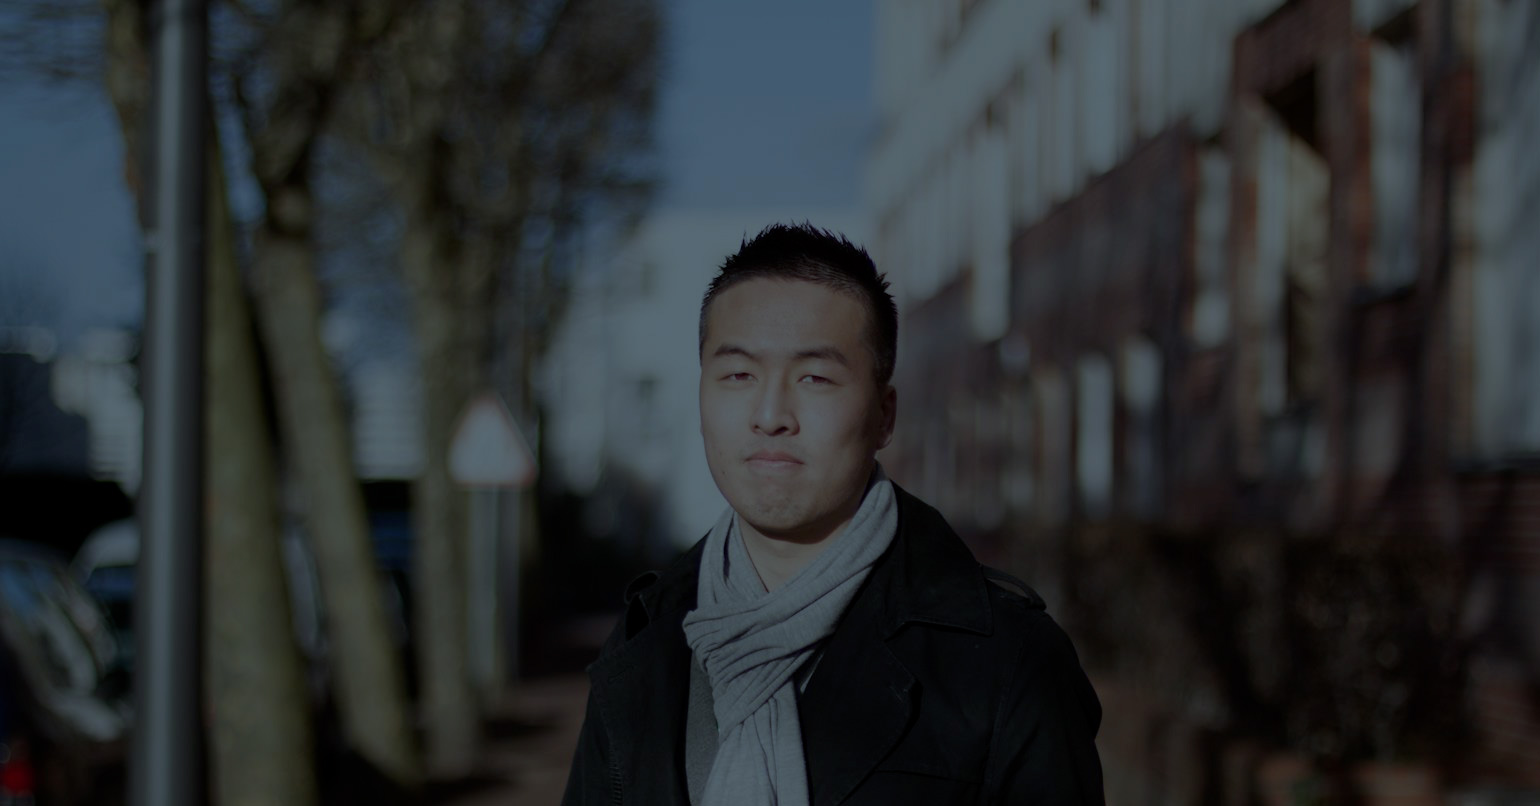
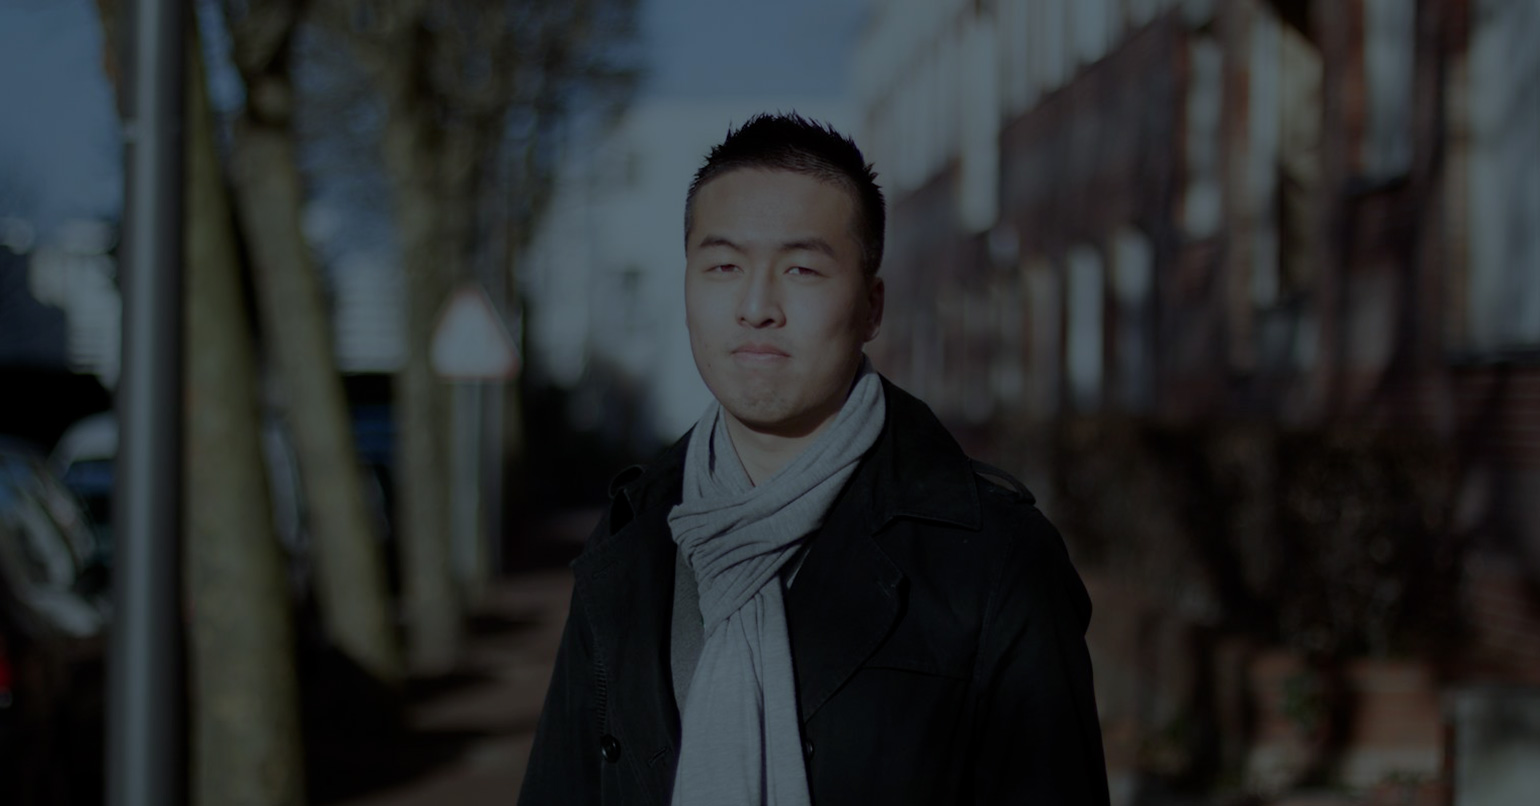
Automatisation import + change splash

diff --git a/app/styles/main.css b/app/styles/main.css
@@ -1,6 +1,3 @@
-@import url(../../bower_components/pure/pure-min.css);
-@import url(../../bower_components/pure/grids-responsive-min.css);
-@import url("//netdna.bootstrapcdn.com/font-awesome/4.0.3/css/font-awesome.css");
 .browsehappy {
   margin: 0.2em 0;
   background: #ccc;
@@ -101,7 +98,8 @@ a.pure-button-primary {
 .home-menu .pure-menu-heading {
   color: white;
   font-weight: 400;
-  font-size: 120%; }
+  font-size: 120%;
+  float: left; }
 
 .home-menu .pure-menu-selected a {
   color: white; }
@@ -130,7 +128,7 @@ a.pure-button-primary {
   height: 88%;
   top: 0;
   left: 0;
-  position: fixed !important; }
+  position: absolute !important; }
 
 .splash {
   /* absolute center .splash within .splash-container */
@@ -138,7 +136,7 @@ a.pure-button-primary {
   height: 50%;
   margin: auto;
   position: absolute;
-  top: 100px;
+  top: 65%;
   left: 0;
   bottom: 0;
   right: 0;
@@ -151,7 +149,7 @@ a.pure-button-primary {
   font-weight: bold;
   color: white;
   border: 3px solid white;
-  padding: 1em 1.6em;
+  padding: 0.5em 0em;
   font-weight: 100;
   border-radius: 5px;
   line-height: 1em; }
@@ -231,7 +229,7 @@ a.pure-button-primary {
   /* We decrease the width of the .splash, since we have more width
   to work with */
   .splash {
-    width: 50%;
+    width: 40%;
     height: 50%; }
 
   .splash-head {

diff --git a/app/styles/main.scss b/app/styles/main.scss
@@ -1,9 +1,5 @@
 // bower:scss
-@import '../../bower_components/pure/pure-min.css';
-@import '../../bower_components/pure/grids-responsive-min.css';
-@import url('//netdna.bootstrapcdn.com/font-awesome/4.0.3/css/font-awesome.css');
 // endbower
-
 
 .browsehappy {
   margin: 0.2em 0;
@@ -123,6 +119,7 @@ a.pure-button-primary {
   color: white;
   font-weight: 400;
   font-size: 120%;
+  float: left;
 }
 
 .home-menu .pure-menu-selected a {
@@ -156,7 +153,7 @@ a.pure-button-primary {
   height: 88%;
   top: 0;
   left: 0;
-  position: fixed !important;
+  position: absolute !important;
 }
 
 .splash {
@@ -165,7 +162,7 @@ a.pure-button-primary {
   height: 50%;
   margin: auto;
   position: absolute;
-  top: 100px; left: 0; bottom: 0; right: 0;
+  top: 65%; left: 0; bottom: 0; right: 0;
   text-align: center;
   text-transform: uppercase;
 }
@@ -176,7 +173,7 @@ a.pure-button-primary {
   font-weight: bold;
   color: white;
   border: 3px solid white;
-  padding: 1em 1.6em;
+  padding: 0.5em 0em;
   font-weight: 100;
   border-radius: 5px;
   line-height: 1em;
@@ -269,7 +266,7 @@ a.pure-button-primary {
   /* We decrease the width of the .splash, since we have more width
   to work with */
   .splash {
-    width: 50%;
+    width: 40%;
     height: 50%;
   }
 

diff --git a/Gruntfile.js b/Gruntfile.js
@@ -55,6 +55,10 @@ module.exports = function (grunt) {
       gruntfile: {
         files: ['Gruntfile.js']
       },
+      less: {
+        files: [ 'bower.json' ],
+        tasks: [ 'exec:bower_install' ]
+      },
       livereload: {
         options: {
           livereload: '<%= connect.options.livereload %>'
@@ -64,6 +68,12 @@ module.exports = function (grunt) {
           '.tmp/styles/{,*/}*.css',
           '<%= yeoman.app %>/images/{,*/}*.{png,jpg,jpeg,gif,webp,svg}'
         ]
+      }
+    },
+    // exec bower install when bower.json changes
+    exec: {
+      bower_install: {
+        cmd: "bower install"
       }
     },
 
@@ -203,7 +213,7 @@ module.exports = function (grunt) {
       },
       sass: {
         src: ['<%= yeoman.app %>/styles/{,*/}*.{scss,sass}'],
-        ignorePath: /(\.\.\/){1,2}bower_components\//
+        ignorePath: /\.\.\.\.\//
       }
     },
 

diff --git a/app/index.html b/app/index.html
@@ -9,6 +9,8 @@
     <!-- build:css(.) styles/vendor.css -->
     <!-- bower:css -->
     <link rel="stylesheet" href="bower_components/pure/pure.css" />
+    <link rel="stylesheet" href="bower_components/pure/grids-responsive-min.css" />
+    <link rel="stylesheet" href="bower_components/font-awesome/css/font-awesome.min.css" />
     <!-- endbower -->
     <!-- endbuild -->
     <!-- build:css(.tmp) styles/main.css -->
